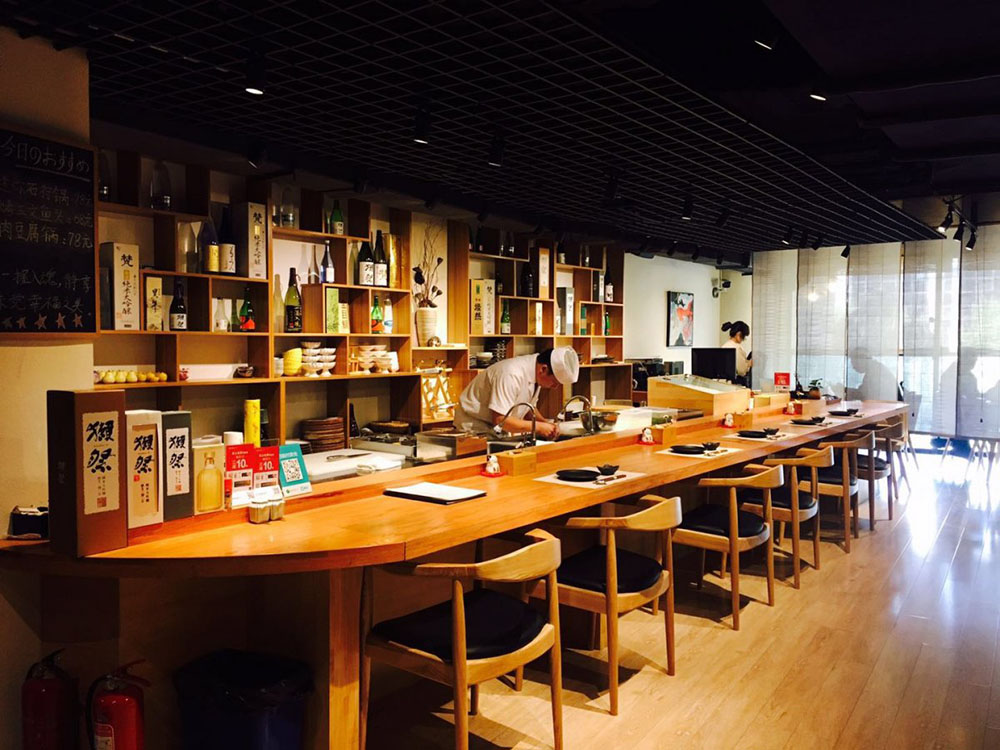
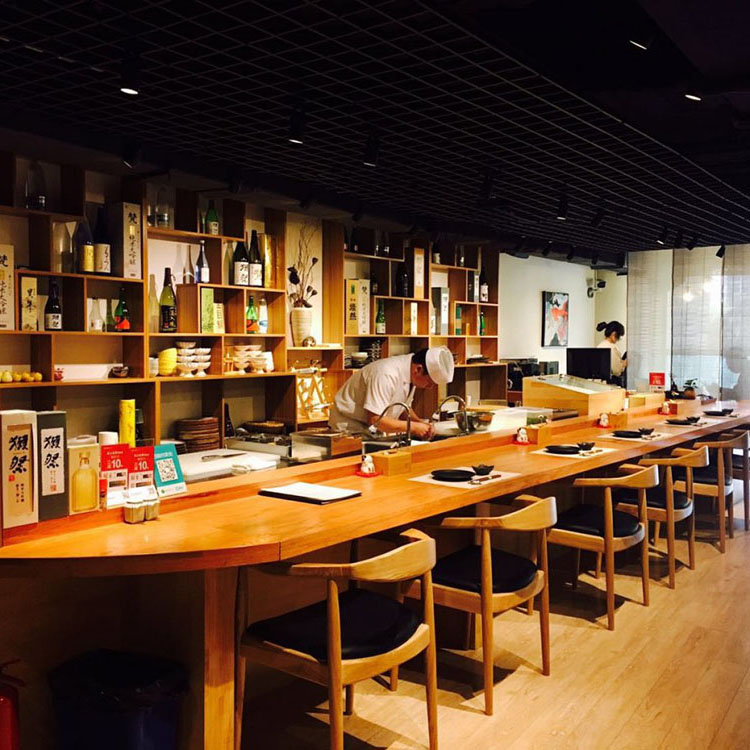
modifies images and css

diff --git a/restaurant-page-domo.html b/restaurant-page-domo.html
@@ -64,14 +64,14 @@
 				</div>
 			</div>
 			<div class="row submitted-images">
-				<div class="col-xs-4">
-					<img src="img/domo-submitted-image-1.jpg" height="125px" width="125px">
+				<div class="col-4">
+					<img src="img/domo-submitted-image-1.jpg" height="auto" width="100%">
 				</div>
-				<div class="col-xs-4">
-					<img src="img/domo-submitted-image-2.jpg" height="125px" width="125px">
+				<div class="col-4">
+					<img src="img/domo-submitted-image-2.jpg" height="auto" width="100%">
 				</div>
-				<div class="col-xs-4">
-					<img src="img/domo-submitted-image-3.jpg" height="125px" width="125px">
+				<div class="col-4">
+					<img src="img/domo-submitted-image-3.jpg" height="auto" width="100%">
 				</div>
 			</div>
 		</div>

diff --git a/css/main.css b/css/main.css
@@ -275,9 +275,9 @@ section.establishment-page-primary p {
     margin-bottom: 0;
 }
 
-section.establishment-page-primary img {
+/* section.establishment-page-primary img {
     object-fit: cover;
-}
+} */
 
 .establishment-info {
     margin-top: 40px;
@@ -315,8 +315,13 @@ section.establishment-page-primary img {
     letter-spacing: .5px;
 }
 
+.submitted-images {
+    padding-left: 0;
+    padding-right: 0;
+}
+
 .submitted-images img {
-    object-fit: cover;
+    /* object-fit: cover; */
     border: 2px solid #FFFCF7;
 }
 
